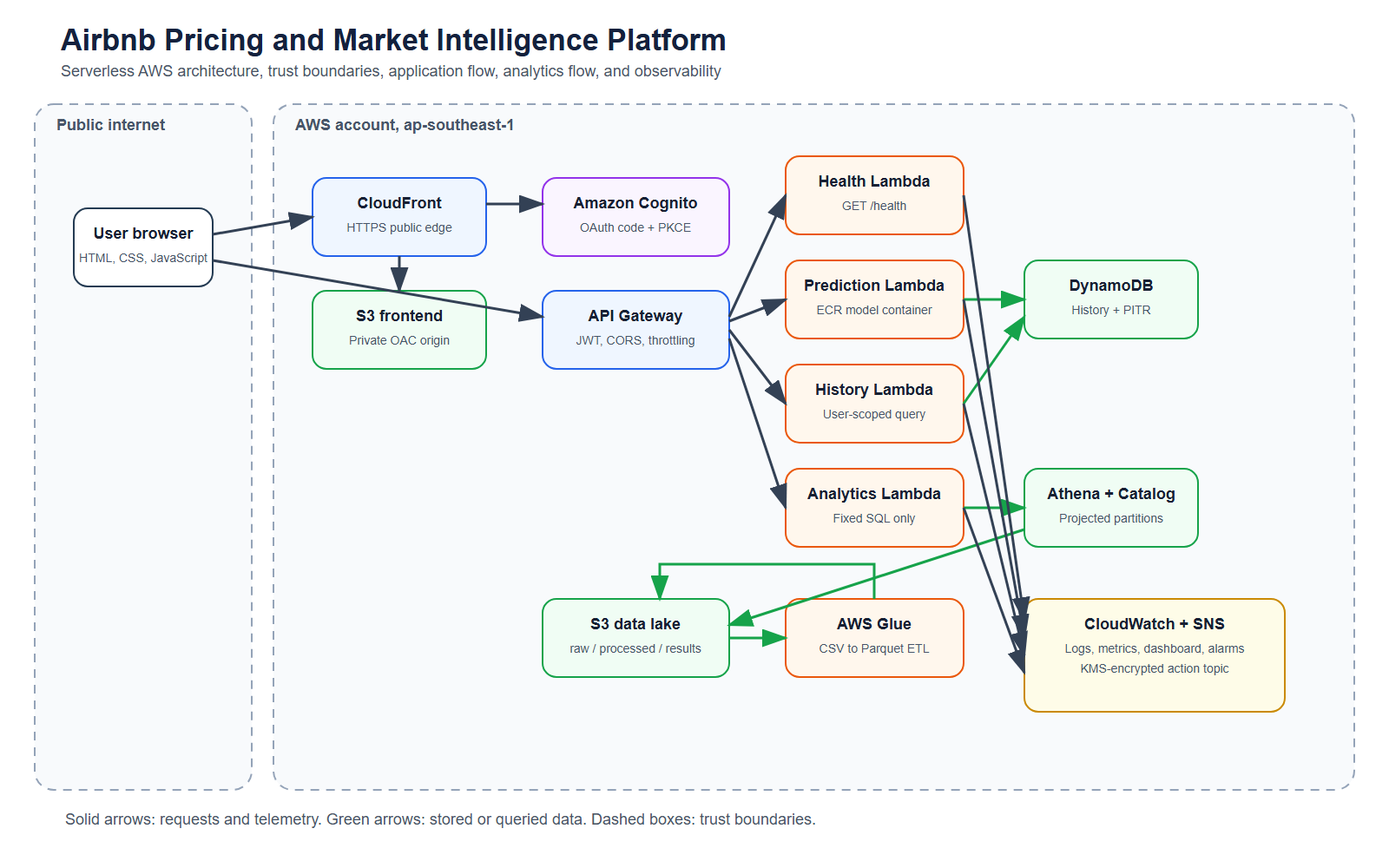
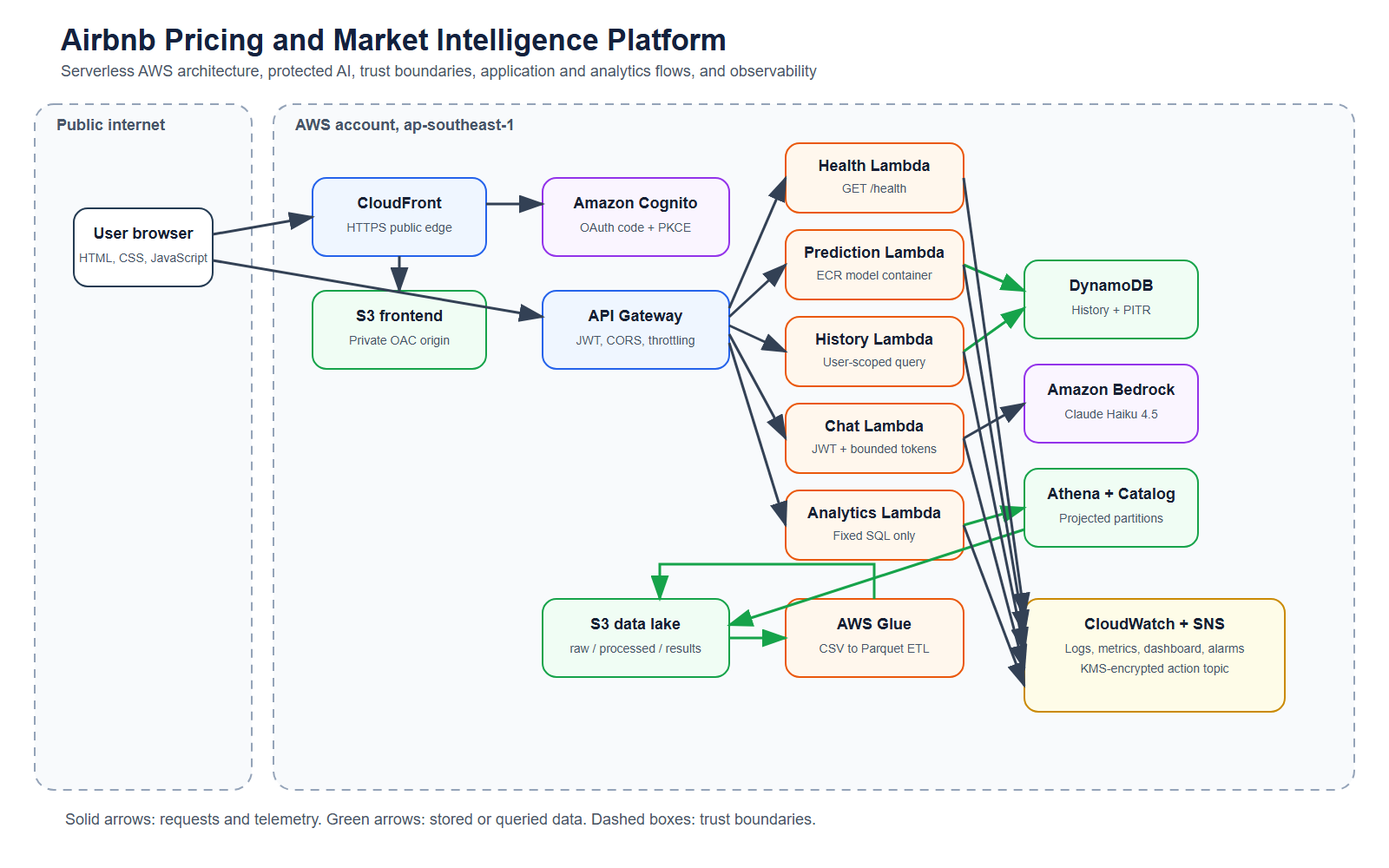
test: add jmeter and cost evidence

Changed region(s): [[0.5, 0.155, 0.75, 0.775], [0.1875, 0.062, 0.5938, 0.093], [0.75, 0.434, 0.8438, 0.496]]

diff --git a/report.md b/report.md
@@ -22,13 +22,13 @@ The service is deliberately scoped. Predictions cover the typical market up to a
 
 ## 2. Solution overview and architecture
 
-The solution uses managed and serverless AWS services. CloudFront is the only public frontend delivery layer and reads static HTML, CSS, JavaScript, and configuration objects from a private S3 bucket through Origin Access Control. Browser requests reach an API Gateway HTTP API. Public routes provide health, prediction, and market analytics. Cognito provides sign-up and sign-in through the hosted UI using the authorization-code flow with PKCE. API Gateway validates JWTs for saved predictions and history.
+The solution uses managed and serverless AWS services. CloudFront is the only public frontend delivery layer and reads static HTML, CSS, JavaScript, and configuration objects from a private S3 bucket through Origin Access Control. Browser requests reach an API Gateway HTTP API. Public routes provide health, prediction, and market analytics. Cognito provides sign-up and sign-in through the hosted UI using the authorization-code flow with PKCE. API Gateway validates JWTs for saved predictions, history, and AI assistant access.
 
-Four focused Lambda functions separate health, prediction, analytics, and history responsibilities. The prediction function is a Lambda container image in ECR because the compatible NumPy, pandas, SciPy, scikit-learn, and model bundle exceed a practical small ZIP deployment. The history function queries DynamoDB by the verified Cognito subject. The analytics function runs one fixed Athena aggregate query, so clients cannot submit SQL.
+Five focused Lambda functions separate health, prediction, analytics, history, and AI responsibilities. The prediction function is a Lambda container image in ECR because the compatible NumPy, pandas, SciPy, scikit-learn, and model bundle exceed a practical small ZIP deployment. The history function queries DynamoDB by the verified Cognito subject. The analytics function runs one fixed Athena aggregate query, so clients cannot submit SQL. The separate chat function invokes the global Claude Haiku 4.5 inference profile only for JWT-authenticated users; it validates a 500-character prompt boundary, caps output at 220 tokens, and does not log prompt text.
 
 The analytical data path uses a separate private S3 data lake. The uploaded raw listing CSV remains under `raw/listings/`. An AWS Glue 5.0 Spark job selects documented fields, rejects invalid required values, applies the same typical-market boundary used by modelling, and writes city-partitioned Parquet under `processed/listings/`. A Glue Catalog table uses partition projection for the ten observed cities. Athena runs in an enforced workgroup with encrypted output, CloudWatch metrics, a 1 GiB scan cutoff, and seven-day query-result expiry.
 
-The architecture has two explicit trust areas: the public browser and the AWS account. HTTPS protects data in transit. IAM execution roles constrain each Lambda and the Glue job to required resources and operations. CloudWatch receives logs and metrics; three alarms target an encrypted SNS topic. DynamoDB point-in-time recovery provides a managed application-record recovery mechanism. The full labelled diagram is stored at `evidence/architecture.png`.
+The architecture has two explicit trust areas: the public browser and the AWS account. HTTPS protects data in transit. IAM execution roles constrain each Lambda and the Glue job to required resources and operations. CloudWatch receives logs and metrics; API and function alarms target an encrypted SNS topic. DynamoDB point-in-time recovery provides a managed application-record recovery mechanism. The full labelled diagram is stored at `evidence/architecture.png`.
 
 ## 3. Cloud service/deployment choices and trade-offs
 
@@ -54,11 +54,11 @@ The prediction API accepts only the final model schema. It rejects missing or un
 
 Cognito uses email sign-in and verification, a 12-character mixed password policy, token revocation, and a public client without a secret. The browser generates a cryptographically random OAuth state and PKCE verifier, uses SHA-256 for the challenge, validates returned state, exchanges the code directly, and holds the ID token in session storage. This reduces code interception and long-lived browser persistence risk, although browser script compromise would still expose an active token.
 
-Authorization is enforced at API Gateway for `POST /predictions` and `GET /history`. Backend code derives the user ID only from `requestContext.authorizer.jwt.claims.sub`; no request parameter can select another user. Saved records include server-computed output, model version, timestamp, and a limited feature subset. Coordinates are not retained. The history role can only query the table, while the prediction role can only put items and write its own logs.
+Authorization is enforced at API Gateway for `POST /predictions`, `GET /history`, and `POST /chat`. Backend code derives the user ID only from `requestContext.authorizer.jwt.claims.sub`; no request parameter can select another user. Saved records include server-computed output, model version, timestamp, and a limited feature subset. Coordinates are not retained. The history role can only query the table, the prediction role can only put items and write its own logs, and the chat role can invoke only the selected Haiku inference profile and model.
 
 The analytics endpoint does not accept query text or view parameters. It submits a constant aggregate query in a named Athena workgroup and converts typed results to a stable response. The Lambda role is limited to that workgroup, catalog resources, processed objects, query-result objects, and its log group. The Glue role can read only the raw listing prefix and script, then read, write, or remove only processed listing objects.
 
-CloudWatch alarms watch API 5xx responses and prediction or analytics Lambda errors. Alarm actions publish to an SNS topic encrypted with a rotating customer-managed KMS key. The key policy permits account administration and limits CloudWatch publishing to this account's named alarms. The topic has no committed recipient because email endpoints are personal deployment configuration; an operator must add and confirm one before treating it as a complete human notification path.
+CloudWatch alarms watch API 5xx responses, prediction, analytics, and chat Lambda errors, and health throttles. The dashboard charts chat duration and errors separately from core prediction traffic. Alarm actions publish to an SNS topic encrypted with a rotating customer-managed KMS key. The key policy permits account administration and limits CloudWatch publishing to this account's named alarms. The topic has no committed recipient because email endpoints are personal deployment configuration; an operator must add and confirm one before treating it as a complete human notification path.
 
 ## 5. Analytics or AI/ML feature: data, method, evaluation and limitations
 
@@ -76,7 +76,9 @@ Limitations include historical staleness, missing values, absent demand and book
 
 ## 6. Testing, scalability/resilience and monitoring results
 
-The repository contains 18 passing Python unit tests covering health responses, prediction validation and response shape, authenticated persistence, history isolation, analytics parsing and safe failures, data profiling, and training behavior. JavaScript files pass Node syntax checks. Terraform formatting and validation pass. The deployed smoke script verifies six frontend assets and MIME types, health, real prediction, ten-city analytics, malformed-input rejection, and unauthenticated `401` responses for both protected routes.
+The repository contains 23 passing Python unit tests covering health responses, prediction validation and response shape, authenticated persistence, history isolation, analytics parsing, bounded AI requests and safe failures, data profiling, and training behavior. JavaScript files pass Node syntax checks. Terraform formatting and validation pass. The deployed smoke script verifies frontend assets and MIME types, health, real prediction, ten-city analytics, malformed-input rejection, and unauthenticated `401` responses for all three protected capabilities.
+
+A JMeter 5.6.3 browser journey ran 25 visitors over 45 seconds against the three public pages and shared assets. All 929 requests passed at 20.3 requests per second, with 666.9 ms mean and 1,508 ms maximum response time. This bounded result verifies the tested CloudFront profile, not an unlimited scaling claim.
 
 Security tests confirmed all four Block Public Access settings on both S3 use cases, anonymous object requests returned `403`, and the data lake reported AES-256 default encryption. The Cognito authorization endpoint redirected to its hosted login page. ECR image scanning for deployed prediction image `1.0.3` completed with zero findings at scan time. Unit tests confirm history queries use only the verified JWT subject.
 
@@ -86,13 +88,13 @@ The bounded live test sent 20 health requests at concurrency two. Eighteen retur
 
 The higher-concurrency finding is intentionally retained. A 50-request, concurrency-25 stress run returned 26 `200`, 13 `429`, and 11 `503` responses. CloudWatch showed the account reaching its concurrency quota of 10. Lowering the API token bucket improved controlled rejection but could not guarantee it because API Gateway throttling is best-effort. The system should not be described as high-scale ready in this account. A higher quota and repeated test are required before increasing expected load.
 
-DynamoDB continuous backups and point-in-time recovery both reported `ENABLED`. A destructive restore was not performed because DynamoDB restores into a new table and would require a tested cutover. Operational monitoring includes structured Lambda events without listing-level inputs, Athena scan and timing metrics, Glue job state, a dashboard, and three alarms. An alarm transition initially exposed a KMS policy failure. After a scoped customer-managed key was deployed, CloudWatch history reported successful execution of the encrypted SNS action, and the test alarm was reset to `OK`.
+DynamoDB continuous backups and point-in-time recovery both reported `ENABLED`. A destructive restore was not performed because DynamoDB restores into a new table and would require a tested cutover. Operational monitoring includes structured Lambda events without listing or prompt text, Athena scan and timing metrics, Glue job state, a dashboard, and five alarms. An alarm transition initially exposed a KMS policy failure. After a scoped customer-managed key was deployed, CloudWatch history reported successful execution of the encrypted SNS action, and the test alarm was reset to `OK`.
 
 ## 7. Cost, sustainability and operational considerations
 
 The architecture minimizes always-on compute. Lambda, API Gateway, DynamoDB on-demand capacity, Athena, Glue jobs, S3, and CloudFront charge primarily by usage or stored volume. The largest intentional batch cost is the Glue Spark job, which runs only when the source data changes and is limited to two `G.1X` workers, a ten-minute timeout, and no retries. Training remains offline to avoid an unnecessary managed training service.
 
-Cost controls are implemented rather than only documented. The Athena workgroup enforces a 1 GiB scan limit. Query results expire after seven days. ECR retains only three images. CloudWatch log groups retain 14 days. The frontend uses low-cost static delivery. Data is partitioned and columnar. API throttling limits the development environment. Terraform supports teardown, although the data-lake bucket uses `force_destroy` to make intentional cleanup complete and must therefore be protected through normal change review.
+Cost controls are implemented rather than only documented. The Athena workgroup enforces a 1 GiB scan limit. Query results expire after seven days. ECR retains only three images. CloudWatch log groups retain 14 days. The frontend uses low-cost static delivery. Data is partitioned and columnar. The AI route requires Cognito, uses bounded tokens, and has a tighter throttle than core routes. API throttling limits the development environment. Terraform supports teardown, although the data-lake bucket uses `force_destroy` to make intentional cleanup complete and must therefore be protected through normal change review. The dated estimate in `evidence/cost-estimate.md` places the low-traffic serverless design near $3 to $6 per month, compared with about $25 for one minimal EC2 host or $74 to $117 for a two-instance web tier depending on private networking.
 
 Sustainability benefits come from avoiding idle servers and reducing repeated data scans. Parquet stores only analytical fields and the current query scans about 0.54 MiB. These choices reduce compute and storage activity for this workload, but no carbon measurement was performed and no universal sustainability claim is made. Glue startup overhead may outweigh benefits for very small one-off files; its value here is the reproducible cloud data-engineering path and integration with Athena.
 

diff --git a/evidence/serverless-zero-trust-review.md b/evidence/serverless-zero-trust-review.md
@@ -1,6 +1,6 @@
 # Serverless Applications Lens and Zero Trust review
 
-Date: 2026-09-23
+Date: 2026-09-24
 
 This review compares the deployed architecture with the supplied AWS Serverless Applications Lens and Zero Trust guidance. It records implemented decisions, evidence, and remaining gaps. It does not claim formal AWS Well-Architected certification.
 
@@ -8,11 +8,11 @@ This review compares the deployed architecture with the supplied AWS Serverless 
 
 | Area | Implemented design | Evidence and remaining gap |
 |------|--------------------|----------------------------|
-| Compute | Four focused Lambda functions provide health, prediction, history, and analytics. Functions keep durable state in managed services. Warm-container globals cache only SDK clients or the read-only model bundle. | `src/backend/`; 18 unit tests. Strict idempotency is not implemented for repeated authenticated prediction submissions, so a retry after an uncertain response can create another history item. The browser disables duplicate submission while a request is active, but that is not a complete idempotency control. |
+| Compute | Five focused Lambda functions provide health, prediction, history, analytics, and protected AI. Functions keep durable state in managed services. Warm-container globals cache only SDK clients or the read-only model bundle. | `src/backend/`; 23 unit tests. Strict idempotency is not implemented for repeated authenticated prediction submissions, so a retry after an uncertain response can create another history item. The browser disables duplicate submission while a request is active, but that is not a complete idempotency control. |
 | Data | Static assets, application records, and analytical data use separate S3 and DynamoDB resources. DynamoDB uses on-demand capacity and a user/time access pattern. Glue writes city-partitioned Parquet queried through Athena. | `src/infrastructure/frontend.tf`, `data.tf`, `data_lake.tf`; `evidence/data-pipeline.md`. The prediction model is isolated in an immutable ECR image rather than the data-lake model prefix. |
-| Identity | Cognito handles application users. API Gateway validates JWTs. History ownership comes only from the verified `sub` claim. AWS services use separate IAM roles. | `src/infrastructure/auth.tf`; `tests/test_history.py`; `evidence/test-security.md`. MFA is disabled to keep the university sign-up flow simple; a higher-risk deployment should enable and test MFA. |
+| Identity | Cognito handles application users. API Gateway validates JWTs for history, saved predictions, and AI access. History ownership comes only from the verified `sub` claim. AWS services use separate IAM roles. | `src/infrastructure/auth.tf`; `tests/test_history.py`; `tests/test_chat.py`; `evidence/test-security.md`. MFA is disabled to keep the university sign-up flow simple; a higher-risk deployment should enable and test MFA. |
 | Edge | CloudFront is the frontend entry point and uses a private OAC S3 origin. The response policy adds CSP, HSTS, anti-framing, MIME-sniffing protection, and a strict referrer policy. | `src/infrastructure/frontend.tf`; live smoke security-header test. WAF is not added because no demonstrated threat justifies its cost and rule operations for this project. |
-| Monitoring | Structured logs, detailed API metrics, Lambda invocation/error/duration/throttle metrics, a dashboard, four alarms, and an encrypted SNS action topic are provisioned. | `src/infrastructure/monitoring.tf`; `evidence/monitoring.md`. The topic requires an operator-managed confirmed subscriber. |
+| Monitoring | Structured logs, detailed API metrics, Lambda invocation/error/duration/throttle metrics, a dashboard, five alarms, and an encrypted SNS action topic are provisioned. AI duration and errors have their own series. | `src/infrastructure/monitoring.tf`; `evidence/monitoring.md`. The topic requires an operator-managed confirmed subscriber. |
 | Deployment | Terraform controls cloud resources. Plans are reviewed before apply. ECR tags are immutable, S3 is versioned, and Git commits preserve tested stages. Raw-data upload and Glue execution are documented manual data operations. | `src/infrastructure/README.md`; Git history. Terraform state is local and should move to an encrypted remote backend with locking for team use. |
 | Release management | Immutable prediction images and Git/Terraform rollback provide basic release recovery. | `src/infrastructure/ecr.tf`. Lambda versions, aliases, and canary deployment are not added because the current single development environment has not demonstrated a need. |
 | Messaging | SNS is used only for operational notifications. Prediction remains a direct synchronous API-to-Lambda workflow. | `src/infrastructure/monitoring.tf`. SQS, EventBridge, and Step Functions are intentionally absent because there is no multi-step asynchronous workflow. |
@@ -23,6 +23,7 @@ This review compares the deployed architecture with the supplied AWS Serverless 
 - The expected-load health test accepts successful `200` and controlled `429` responses. The stress test honestly records `503` responses caused by the account concurrency quota of 10.
 - Athena reads processed Parquet, not the raw CSV. The recorded aggregate scanned 566,077 bytes and completed in 697 ms.
 - DynamoDB uses on-demand billing because the workload is low and unpredictable. Glue runs with two `G.1X` workers, a ten-minute timeout, and no retries.
+- Bedrock runs through a separate Lambda and protected route. Prompts are limited to 500 characters, responses to 220 tokens, and route throughput to one request per second.
 - Malformed input, unsupported categories, missing claims, Athena failure, model failure, and DynamoDB failure return controlled responses without stack traces. Downstream failures are logged.
 - Automatic retries are not added to synchronous write paths because blind retries could create duplicate history records. A future idempotency-key design should precede any client retry policy.
 
@@ -36,6 +37,7 @@ This review compares the deployed architecture with the supplied AWS Serverless 
 | API Gateway to Lambda | Per-route `aws_lambda_permission` source ARN |
 | Prediction Lambda to DynamoDB | Dedicated role with `dynamodb:PutItem` on one table |
 | History Lambda to DynamoDB | Dedicated role with `dynamodb:Query` on one table; no `Scan` |
+| Chat Lambda to Bedrock | Cognito-protected route and dedicated role restricted to the selected Haiku inference profile and foundation model |
 | Analytics Lambda to Athena, Glue, and S3 | Dedicated role restricted to one workgroup, catalog objects, processed prefix, and result prefix |
 | Glue to S3 | Dedicated role restricted to the script, raw listing prefix, and processed listing prefix |
 | CloudWatch alarms to SNS | Named alarms publish through a customer-managed KMS key scoped by source account and alarm ARN |
@@ -43,7 +45,7 @@ This review compares the deployed architecture with the supplied AWS Serverless 
 ## Zero Trust test results
 
 - Anonymous frontend and data-lake S3 object requests returned HTTP 403.
-- Unauthenticated `GET /history` and `POST /predictions` returned HTTP 401.
+- Unauthenticated `GET /history`, `POST /predictions`, and `POST /chat` returned HTTP 401.
 - Unit tests confirmed the history partition key comes from verified JWT claims.
 - Malformed prediction JSON returned HTTP 400 with a safe error.
 - CloudFront responses included CSP, HSTS, `X-Content-Type-Options`, and `X-Frame-Options`.

diff --git a/evidence/cost-estimate.md b/evidence/cost-estimate.md
@@ -1,0 +1,54 @@
+# Monthly Cost Estimate
+
+**Estimate date:** 2026-09-24
+
+**Region:** Asia Pacific (Singapore)
+
+**Currency:** USD before tax
+
+**Purpose:** Compare the deployed serverless design with EC2 hosting at low project traffic. This is an estimate, not a bill or quotation.
+
+## Assumptions
+
+- 10,000 page journeys and 10,000 non-AI API requests per month.
+- 1,000 authenticated AI questions per month.
+- Each AI question averages 300 input tokens and 100 output tokens.
+- One 90-second Glue run per month using two `G.1X` workers.
+- About 5 GB of monthly internet delivery, less than 1 GB of application storage, and low log volume.
+- Free-tier credits are excluded from the main comparison because account eligibility varies.
+
+## Serverless estimate
+
+| Component | Monthly estimate | Basis |
+|---|---:|---|
+| Claude Haiku 4.5 | $0.88 | 0.3M input tokens at $1.10/M plus 0.1M output tokens at $5.50/M |
+| KMS customer-managed key | $1.00 | One operational-alert key |
+| Glue ETL | $0.02 | Two DPUs for about 1.5 minutes at $0.44/DPU-hour |
+| CloudFront, S3 and ECR | $0.75 | Small static site, about 5 GB delivery, and one prediction image |
+| API Gateway, Lambda, DynamoDB, Athena, Cognito and CloudWatch | $1.25 | Low request, compute, scan and log volume with a contingency allowance |
+| **Estimated total** | **about $3.90/month** | Reasonable range: **$3 to $6/month** at these assumptions |
+
+At 10,000 AI questions with the same token shape, Bedrock rises from about $0.88 to about $8.80, producing an estimated serverless total near $12/month. The application therefore requires Cognito on `/chat`, limits messages to 500 characters, caps responses at 220 tokens, and throttles this route to one request per second.
+
+## Comparable EC2 baselines
+
+AWS Price List API rates retrieved on 2026-09-24 for Singapore were: `t3.small` Linux $0.0264/hour, gp3 $0.096/GB-month, Application Load Balancer $0.0252/hour plus $0.008/LCU-hour, public IPv4 $0.005/hour, and NAT Gateway $0.059/hour plus data processing.
+
+| Design | Monthly fixed hosting | Calculation |
+|---|---:|---|
+| Minimal, not highly available | **$24.84** | One `t3.small` ($19.27), 20 GB gp3 ($1.92), one public IPv4 ($3.65) |
+| Two-instance web tier | **$73.92** | Two `t3.small` ($38.54), 40 GB gp3 ($3.84), ALB hours ($18.40), one average LCU ($5.84), two ALB IPv4 addresses ($7.30) |
+| Private two-instance web tier | **$116.99** | Two-instance total plus one NAT Gateway hour charge ($43.07), before NAT data processing |
+
+These EC2 figures intentionally keep Cognito, Bedrock, DynamoDB and analytical services unchanged so the comparison isolates web and API hosting. They exclude backup storage, additional NAT gateways, database replacement, traffic, monitoring growth and engineering time for patching, scaling and failover. A production multi-AZ design with one NAT Gateway per availability zone would be higher.
+
+## Interpretation
+
+For this low-volume, uneven university workload, serverless avoids roughly $21 to $113 of idle monthly infrastructure compared with the three EC2 baselines. EC2 can become competitive for consistently high utilization or specialized long-running workloads, but the measured workload does not justify always-on instances. Actual spend must be checked in AWS Cost Explorer after deployment.
+
+## Pricing sources
+
+- [AWS Lambda pricing](https://aws.amazon.com/lambda/pricing/)
+- [Amazon EC2 On-Demand pricing](https://aws.amazon.com/ec2/pricing/on-demand/)
+- [Amazon Bedrock pricing](https://aws.amazon.com/bedrock/pricing/)
+- [AWS Price List API](https://docs.aws.amazon.com/awsaccountbilling/latest/aboutv2/price-changes.html)

diff --git a/README.md b/README.md
@@ -21,9 +21,9 @@ Airbnb hosts and prospective hosts can struggle to interpret local listing patte
 
 ## Live site
 
-- Estimator dashboard: `https://d1zd6v8ocgz2mi.cloudfront.net/`
-- City market guide: `https://d1zd6v8ocgz2mi.cloudfront.net/markets.html`
-- Project and architecture story: `https://d1zd6v8ocgz2mi.cloudfront.net/project.html`
+- Estimator dashboard: `https://d3elvmvxbz7fmt.cloudfront.net/`
+- City market guide: `https://d3elvmvxbz7fmt.cloudfront.net/markets.html`
+- Project and architecture story: `https://d3elvmvxbz7fmt.cloudfront.net/project.html`
 
 ## Quickstart commands
 
@@ -51,7 +51,7 @@ terraform output analytics_url
 
 ![Architecture diagram](evidence/architecture.png)
 
-CloudFront serves a static frontend from a private S3 origin. The frontend calls an API Gateway HTTP API, which invokes focused Lambda functions. `GET /health`, `POST /predict`, and `GET /analytics` are public. Cognito protects `POST /predictions` and `GET /history`; authenticated predictions are stored under the token-derived user identifier in an encrypted DynamoDB table. The evaluated model runs from an ECR-backed Lambda container. Glue converts the raw listing CSV into city-partitioned Parquet in a separate private S3 data lake, and the analytics Lambda runs a fixed aggregate query through Athena.
+CloudFront serves a static frontend from a private S3 origin. The frontend calls an API Gateway HTTP API, which invokes focused Lambda functions. `GET /health`, `POST /predict`, and `GET /analytics` are public. Cognito protects `POST /predictions`, `GET /history`, and the Claude Haiku-backed `POST /chat` route. AI traffic uses a separate Lambda and tighter route throttle so it can be cost-controlled independently from prediction traffic. Authenticated predictions are stored under the token-derived user identifier in encrypted DynamoDB. The evaluated model runs from an ECR-backed Lambda container. Glue converts the raw listing CSV into city-partitioned Parquet in a separate private S3 data lake, and the analytics Lambda runs a fixed aggregate query through Athena.
 
 ## Technology list
 
@@ -61,7 +61,7 @@ CloudFront serves a static frontend from a private S3 origin. The frontend calls
 - Identity and data: branded Cognito Managed Login v2 and encrypted Amazon DynamoDB prediction history
 - Data engineering: private Amazon S3 data lake, AWS Glue, Parquet, Glue Data Catalog, and Amazon Athena
 - Operations: CloudWatch structured logs, metrics, dashboard and alarms with an encrypted SNS action topic
-- Analytics / AI-ML: reproducible scikit-learn price regression pipeline with held-out evaluation
+- Analytics / AI-ML: reproducible scikit-learn price regression pipeline plus a bounded Amazon Bedrock Claude Haiku 4.5 assistant
 - Application: HTML, CSS, JavaScript, and Python
 
 ## Known limitations
@@ -73,3 +73,4 @@ CloudFront serves a static frontend from a private S3 origin. The frontend calls
 - The development AWS account has a concurrency quota of 10. A high-concurrency stress test caused Lambda throttles despite API Gateway rate limits; see `evidence/test-resilience.md`.
 - The SNS alert topic has no human subscription in source control and needs an operator-managed confirmed endpoint.
 - Cloud deployment requires an AWS account and may incur a small cost.
+- Cost assumptions and EC2 comparisons are documented in `evidence/cost-estimate.md`.

diff --git a/src/infrastructure/README.md b/src/infrastructure/README.md
@@ -11,6 +11,7 @@ Terraform provisions the AWS resources for the serverless application, identity,
 - A Cognito user pool and DynamoDB prediction-history table
 - A private encrypted S3 data lake, Glue transform, catalog table, and Athena workgroup
 - A fixed-query analytics Lambda and `GET /analytics` route
+- A separate Claude Haiku chat Lambda and Cognito-protected `POST /chat` route
 - CloudWatch alarms and dashboard with an encrypted SNS action topic
 
 ## Prerequisites
@@ -42,11 +43,12 @@ terraform output prediction_history_url
 terraform output data_lake_bucket_name
 terraform output glue_transform_job_name
 terraform output analytics_url
+terraform output chat_url
 terraform output operations_dashboard_name
 terraform output operational_alerts_topic_arn
 ```
 
-The browser uses Cognito's authorization-code flow with PKCE. Public predictions use `/predict`; signed-in predictions use `/predictions` and are saved to DynamoDB for retrieval from `/history`.
+The browser uses Cognito's authorization-code flow with PKCE. Public predictions use `/predict`; signed-in predictions use `/predictions` and are saved to DynamoDB for retrieval from `/history`. Signed-in users can call `/chat`; the separate AI Lambda uses the global Claude Haiku 4.5 inference profile, a 220-token output cap, and a tighter one-request-per-second API route limit.
 
 After changing frontend files, invalidate CloudFront so cached objects are refreshed:
 
@@ -72,7 +74,7 @@ The job is limited to two `G.1X` workers, a ten-minute timeout, and no retries. 
 
 ## Monitoring
 
-CloudWatch alarms track API 5xx responses and prediction/analytics Lambda errors. Their SNS topic uses a rotating customer-managed KMS key whose policy permits only this account's named CloudWatch alarms to publish. No subscription is committed because recipient addresses are personal deployment configuration. Add and confirm an operator endpoint separately before treating the topic as a complete notification channel.
+CloudWatch alarms track API 5xx responses, prediction/analytics/chat Lambda errors, and health throttles. The dashboard gives the chat Lambda its own duration and error series so AI latency can be reviewed independently. Their SNS topic uses a rotating customer-managed KMS key whose policy permits only this account's named CloudWatch alarms to publish. No subscription is committed because recipient addresses are personal deployment configuration. Add and confirm an operator endpoint separately before treating the topic as a complete notification channel.
 
 The development account has a Lambda concurrency quota of 10, so the API stage uses a conservative two-request burst and two-request-per-second limit. See `evidence/test-resilience.md` for passing expected-load results and the honestly recorded higher-concurrency failure.
 

diff --git a/evidence/threat-control-map.md b/evidence/threat-control-map.md
@@ -10,6 +10,8 @@ Map named threats to the controls that mitigate them, with evidence links.
 | Operational failures going unnoticed | CloudWatch alarms publish to an encrypted SNS topic, and a dashboard exposes API errors and Lambda duration/errors | `src/infrastructure/monitoring.tf`, `evidence/monitoring.md` |
 | Over-privileged compute identity | The health Lambda role can only write to its dedicated CloudWatch log group | `src/infrastructure/api.tf` |
 | Unauthorized prediction-history access | API Gateway validates Cognito JWTs, and handlers derive the DynamoDB partition key only from the verified `sub` claim | `src/infrastructure/auth.tf`, `src/backend/history/handler.py`, `evidence/test-security.md` |
+| Anonymous AI cost abuse or oversized prompts | API Gateway requires a Cognito JWT, the chat route has a one-request-per-second throttle, and the handler caps input and output | `src/infrastructure/chat.tf`, `src/backend/chat/handler.py`, `tests/test_chat.py` |
+| Sensitive prompt text entering application logs | The chat function logs request identifiers, page names, and token counts but not message or response text | `src/backend/chat/handler.py` |
 | OAuth authorization-code interception or request forgery | The browser uses PKCE with SHA-256 and validates a cryptographically random state value | `src/frontend/auth.js` |
 | Long-lived browser token exposure | ID tokens are held in `sessionStorage`, expire after the token lifetime, and are cleared at sign-out | `src/frontend/auth.js` |
 | Unapproved browser origins calling the API | API Gateway CORS allows only the deployed CloudFront origin | `src/infrastructure/api.tf`, `evidence/test-security.md` |

diff --git a/AI_USE_DECLARATION.md b/AI_USE_DECLARATION.md
@@ -8,6 +8,7 @@ verification the team performed, and any licences/attribution.
 | Tool | Where it was used | Purpose |
 |------|-------------------|---------|
 | OpenAI Codex | `AGENTS.md`, `.gitignore`, `README.md`, `src/`, `tests/`, `evidence/`, and `project_manifest.yaml` | Repository inspection, implementation support, Terraform configuration, tests, documentation, and deployment verification. |
+| Amazon Bedrock Claude Haiku 4.5 | Deployed `POST /chat` application feature | Answers authenticated, project-scoped user questions through a bounded prompt and response interface. |
 
 ## Sources and baselines
 
@@ -21,6 +22,7 @@ verification the team performed, and any licences/attribution.
 - Reviewed the Terraform plan before each apply and confirmed that it contained no destructive actions.
 - Ran `terraform fmt -check`, `terraform validate`, Python unit tests, and JavaScript syntax checking.
 - Verified the deployed CloudFront frontend, API workflows, CORS restriction, direct S3 denial, Cognito-protected routes, Glue output, Athena query, DynamoDB recovery setting, alarms, and CloudWatch log events.
+- Invoked the deployed chat Lambda with a project question and confirmed a bounded Haiku response; unauthenticated API access returned HTTP 401.
 - Compared generated documentation claims against dated command output in `evidence/` and retained failed stress-test findings.
 - The team remains responsible for reviewing future generated work and validating all final claims.
 

diff --git a/evidence/test-web-load.md b/evidence/test-web-load.md
@@ -1,0 +1,31 @@
+# JMeter Web Load Test
+
+**Test date:** 2026-09-24
+
+**Tool:** Apache JMeter 5.6.3, verified against the official SHA-512 checksum
+
+**Target:** Deployed CloudFront frontend in the project AWS account
+
+## Method
+
+The non-GUI plan `tests/jmeter/web-load.jmx` simulated 25 visitors, ramped over 15 seconds, for a 45-second scheduled duration. Each loop requested the home page, stylesheet, estimator JavaScript, city market page and project page with a 350 ms reading pause. The run used browser caching rules but cleared the cache for each new journey.
+
+```powershell
+./tests/run_jmeter.ps1 `
+  -FrontendUrl (terraform -chdir=src/infrastructure output -raw frontend_url) `
+  -Threads 25 `
+  -RampSeconds 15 `
+  -DurationSeconds 45 `
+  -JMeterCommand "$env:LOCALAPPDATA\Programs\apache-jmeter-5.6.3\bin\jmeter.bat"
+```
+
+## Result
+
+- Total requests: 929
+- Throughput: 20.3 requests/second
+- Failures: 0 (0.00%)
+- Mean response time: 666.9 ms
+- Minimum response time: 362 ms
+- Maximum response time: 1,508 ms
+
+The bounded profile passed. It demonstrates successful CloudFront static delivery at this test level, not an unlimited scaling claim or a measured breaking point. Generated JTL and HTML report files remain under ignored `tmp/` storage because they contain run-specific output.

diff --git a/evidence/test-functional.md b/evidence/test-functional.md
@@ -35,7 +35,7 @@
 - **Setup:** Cognito hosted UI, public application client, PKCE browser client, API Gateway JWT authorizer, and DynamoDB history table.
 - **Command / steps:** Request the Cognito `/oauth2/authorize` URL and run `tests/smoke_api.ps1` against the deployed frontend and API.
 - **Expected result:** Cognito redirects to its login page, all frontend authentication assets load with their correct content types, and unauthenticated protected calls return HTTP 401.
-- **Actual result:** Passed. Cognito returned HTTP 302 to `/login`; the six frontend assets returned HTTP 200 with correct content types; both protected routes returned HTTP 401 without a token.
+- **Actual result:** Passed. Cognito returned HTTP 302 to `/login`; frontend assets returned HTTP 200 with correct content types; history, saved prediction, and AI chat routes returned HTTP 401 without a token.
 - **Date:** 2026-09-23
 - **Limitation:** Creating and verifying a real user was not automated because it requires an external email account. The authenticated save-and-read path is covered by handler unit tests but still needs a recorded manual browser test.
 - **Artefact path:** `src/frontend/auth.js`, `src/frontend/app.js`, `src/infrastructure/auth.tf`, and `tests/smoke_api.ps1`

diff --git a/tests/README.md b/tests/README.md
@@ -29,3 +29,15 @@ python tests/load_health.py --url <health-url> --requests 20 --concurrency 2
 ```
 
 The command passes only when every response is HTTP 200 or an explicit HTTP 429 throttle response and at least one request succeeds.
+
+Run the CloudFront browser journey with Apache JMeter 5.6.3 or newer:
+
+```powershell
+./tests/run_jmeter.ps1 `
+  -FrontendUrl <frontend-url> `
+  -Threads 10 `
+  -RampSeconds 10 `
+  -DurationSeconds 30
+```
+
+The plan repeatedly loads the home page, shared assets, market guide, and project page. Start with the bounded defaults and increase concurrency only after reviewing account quotas and prior results. Generated JTL and HTML reports are stored under ignored `tmp/` paths.
